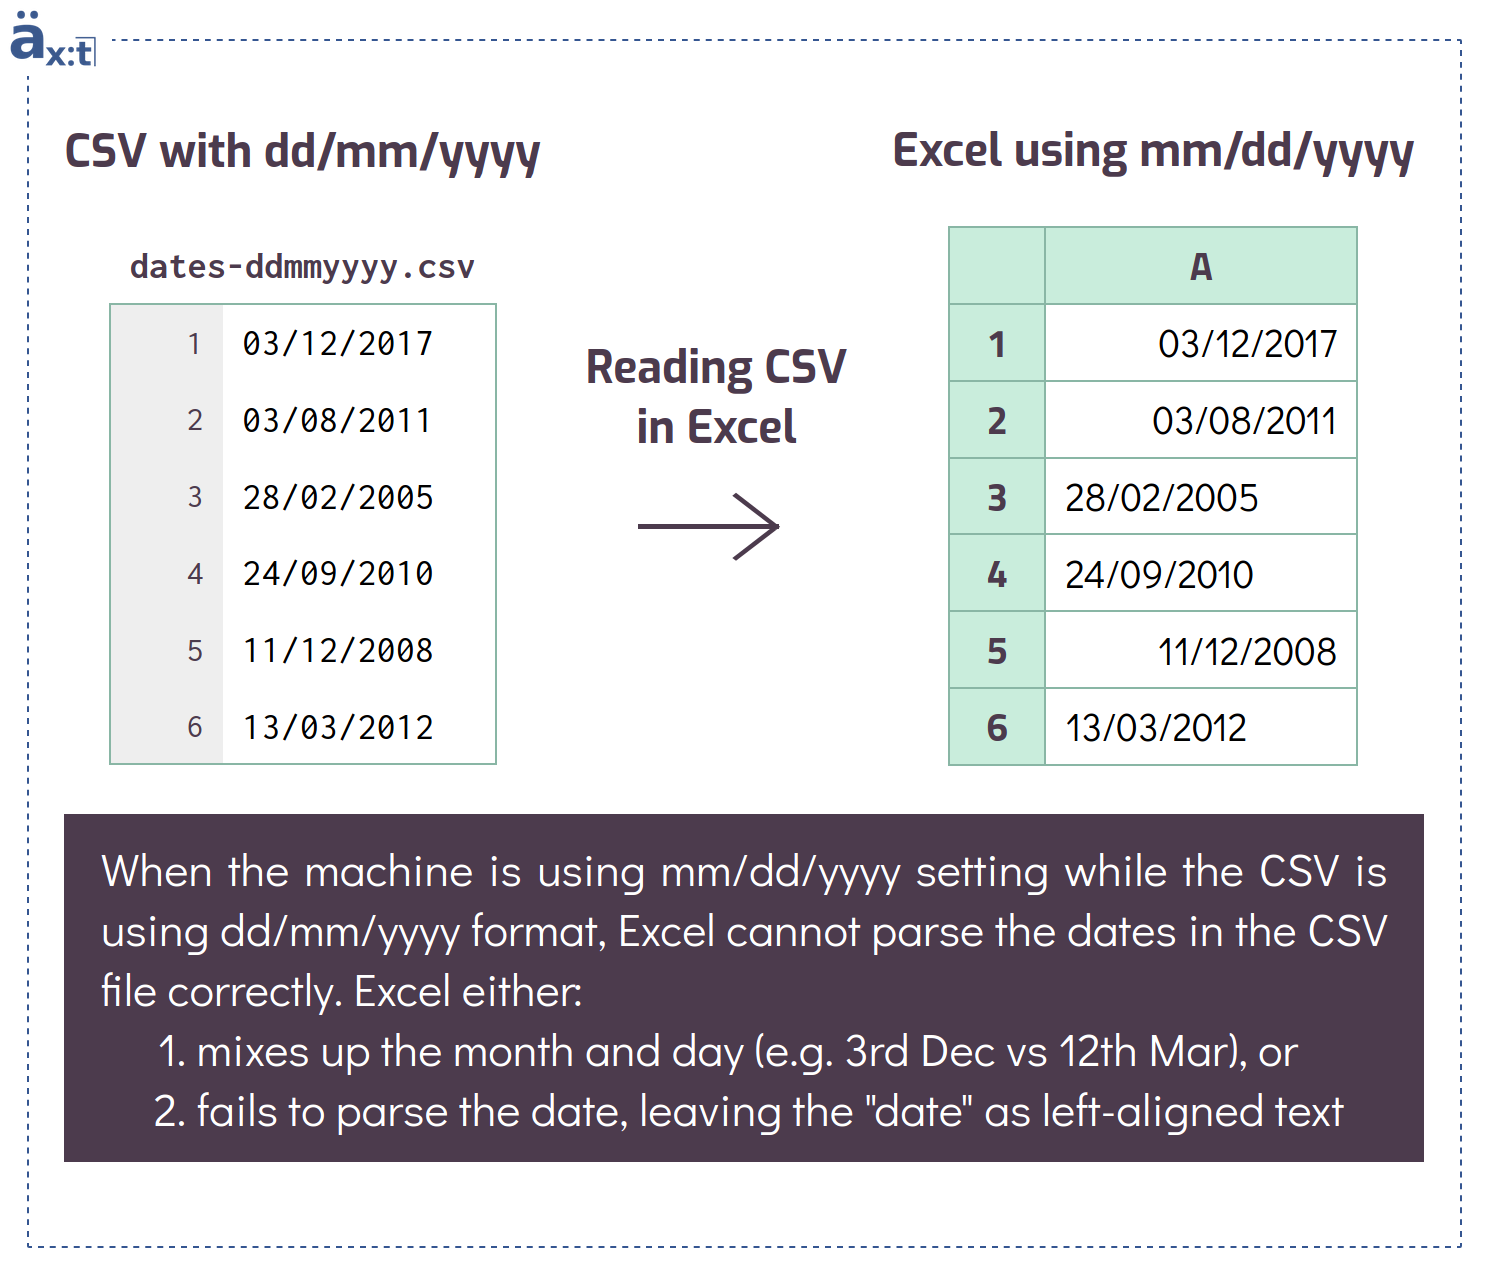
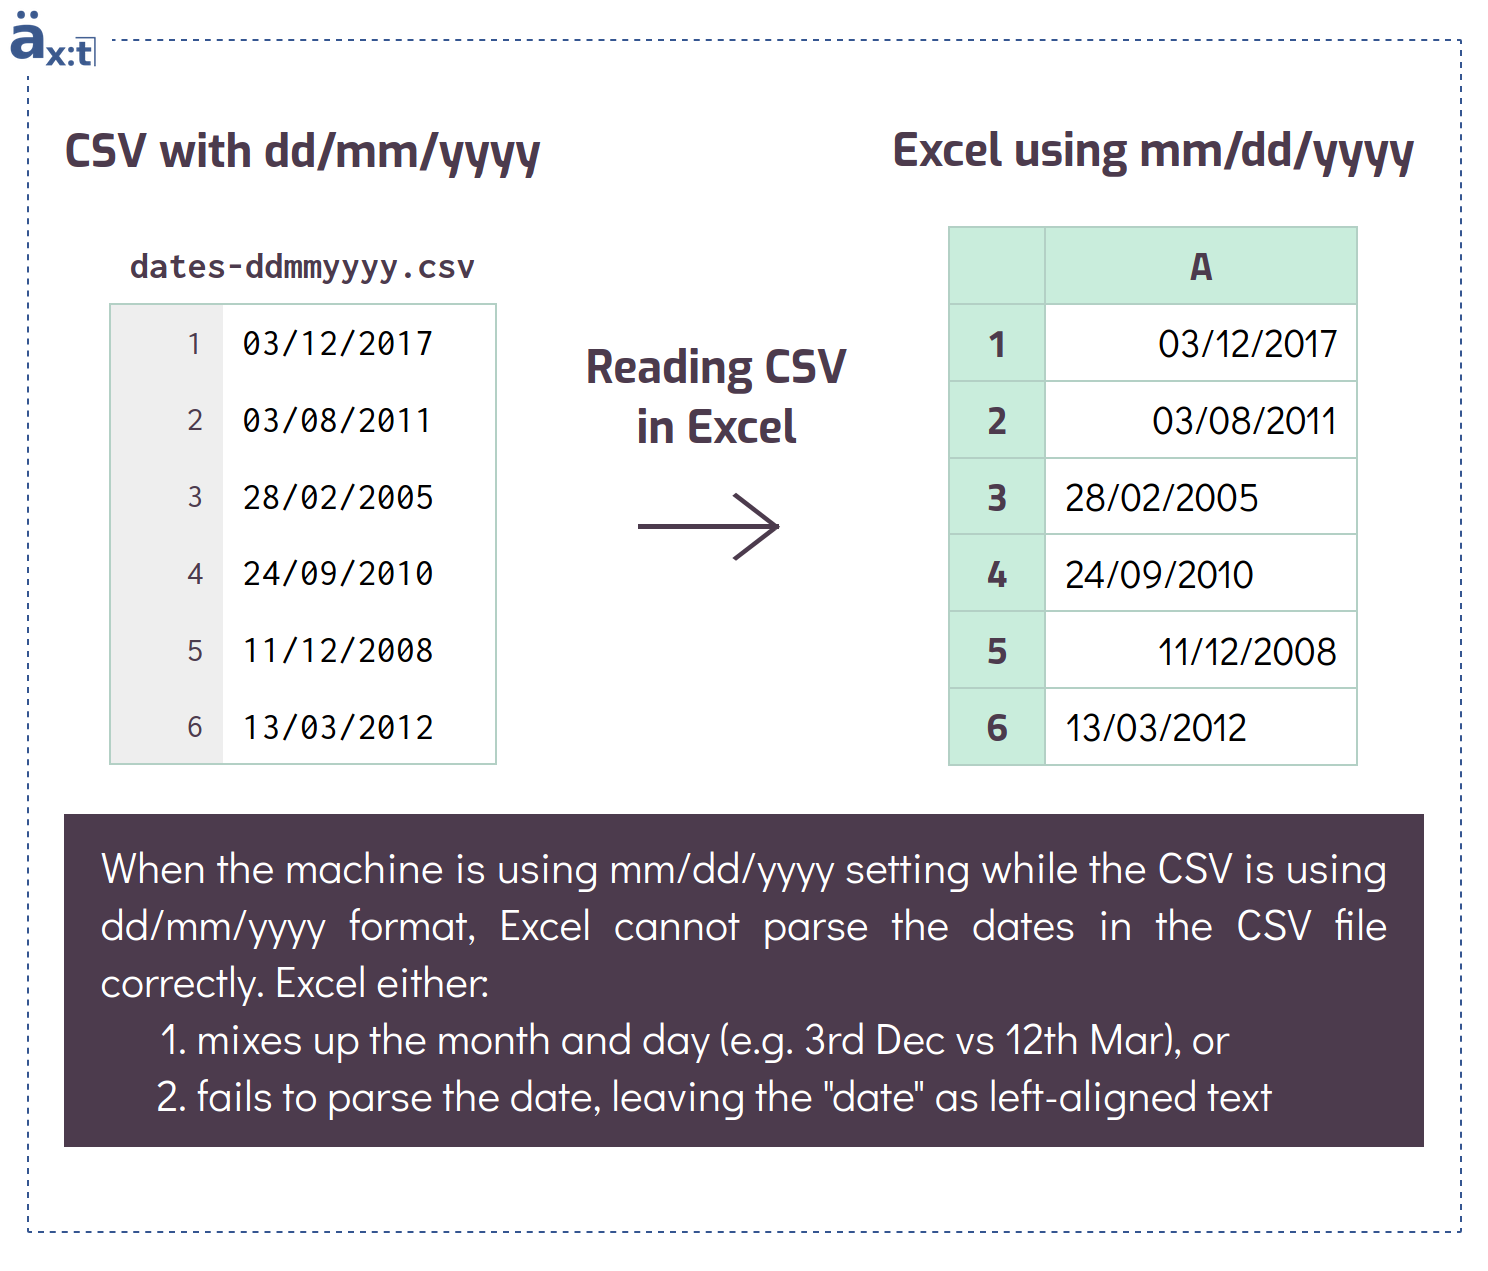
Create dates part2 dates as key image and refine styling

diff --git a/excel-grid/05-dates-part2-dates-as-key.html b/excel-grid/05-dates-part2-dates-as-key.html
@@ -1,0 +1,125 @@
+<!DOCTYPE HTML PUBLIC "-//W3C//DTD HTML 4.01//EN"
+   "http://www.w3.org/TR/html4/strict.dtd">
+<html>
+  <head>
+    <meta charset="utf-8">
+    <link href="excel-grid.css" rel="stylesheet" />
+    <link href="prismjs/prism.css" rel="stylesheet" />
+  </head>
+  <body style="width: 800px;"><div class="container"><div class="content">
+    <div class="background-logo"> </div>
+    <h3>Using dates in keys</h3>
+    <table class="excel-grid">
+      <thead>
+        <tr>
+          <th></th>
+          <th>A</th>
+          <th>B</th>
+          <th class="small">C</th>
+          <th class="small">D</th>
+          <th>E</th>
+          <th>F</th>
+        </tr>
+      </thead>
+      <tbody>
+        <tr>
+          <th>1</th>
+          <td/><td/><td colspan="4"><p class="bold">Exchange Rate Data</p>
+        </tr>
+        <tr class="header">
+          <th>2</th>
+          <td><p class="bad">Bad Key</p></td>
+          <td><p class="good">Good Key</p></td>
+          <td><p>From</p></td>
+          <td><p>To</p></td>
+          <td><p>Date</p></td>
+          <td><p>Exchange Rate</p></td>
+        </tr>
+        <tr>
+          <th>3</th>
+          <td>
+            <p class="bad">EUR-USD-44105</p>
+            <code class="lang-excel-formula">=C3&"-"&D3&"-"&E3</code>
+          </td>
+          <td>
+            <p class="good">EUR-USD-20201001</p>
+            <code class="lang-excel-formula">=C3&"-"&D3&"-"&TEXT(E3, "yyyymmdd")</code>
+          </td>
+          <td><p>EUR</p></td>
+          <td><p>USD</p></td>
+          <td><p class="value">01-Oct-2020</p></td>
+          <td><p class="value">1.174426</p></td>
+        </tr>
+        <tr>
+          <th>4</th>
+          <td>
+            <p class="bad">GBP-USD-44105</p>
+            <code class="lang-excel-formula">=C4&"-"&D4&"-"&E4</code>
+          </td>
+          <td>
+            <p class="good">GBP-USD-20201001</p>
+            <code class="lang-excel-formula">=C4&"-"&D4&"-"&TEXT(E4, "yyyymmdd")</code>
+          </td>
+          <td><p>GBP</p></td>
+          <td><p>USD</p></td>
+          <td><p class="value">01-Oct-2020</p></td>
+          <td><p class="value">1.289732</p></td>
+        </tr>
+        <tr>
+          <th>5</th>
+          <td>
+            <p class="bad">HKD-USD-44105</p>
+          </td>
+          <td>
+            <p class="good">HKD-USD-20201001</p>
+          </td>
+          <td><p>HKD</p></td>
+          <td><p>USD</p></td>
+          <td><p class="value">01-Oct-2020</p></td>
+          <td><p class="value">0.129031</p></td>
+        </tr>
+        <tr>
+          <th>6</th>
+          <td>
+            <p class="bad">EUR-USD-44106</p>
+          </td>
+          <td>
+            <p class="good">EUR-USD-20201002</p>
+          </td>
+          <td><p>EUR</p></td>
+          <td><p>USD</p></td>
+          <td><p class="value">02-Oct-2020</p></td>
+          <td><p class="value">1.172086</p></td>
+        </tr>
+        <tr>
+          <th>7</th>
+          <td>
+            <p class="bad">GBP-USD-44106</p>
+          </td>
+          <td>
+            <p class="good">GBP-USD-20201002</p>
+          </td>
+          <td><p>GBP</p></td>
+          <td><p>USD</p></td>
+          <td><p class="value">02-Oct-2020</p></td>
+          <td><p class="value">1.293753</p></td>
+        </tr>
+        <tr>
+          <th>8</th>
+          <td>
+            <p class="bad">HKD-USD-44106</p>
+          </td>
+          <td>
+            <p class="good">HKD-USD-20201002</p>
+          </td>
+          <td><p>HKD</p></td>
+          <td><p>USD</p></td>
+          <td><p class="value">02-Oct-2020</p></td>
+          <td><p class="value">0.129028</p></td>
+        </tr>
+      </tbody>
+    </table>
+  </div></div>
+    <script src="prismjs/prism.js"></script>
+  </body>
+</html>

diff --git a/excel-grid/excel-grid.css b/excel-grid/excel-grid.css
@@ -41,7 +41,7 @@ h1, h2, h3, h4, h5, h6 {
   margin-left: 0;
 }
 table, th, tr, td {
-  border: 1px solid #89b6a5;
+  border: 1px solid #b3d0c5;
   border-collapse: collapse;
 }
 table p {
@@ -61,14 +61,14 @@ table.text tbody tr td {
   border-top: 1px solid transparent;
 }
 table.text {
-  border: 1px solid #89b6a5; /* shade of 89b6a5 */
+  border: 1px solid #b3d0c5; /* shade of b3d0c5 */
   border-top: none;
 }
 table.text thead th {
   background-color: transparent;
   border-left: 1px solid transparent;
   border-right: 1px solid transparent;
-  border-bottom: 1px solid #89b6a5; /* shade of 89b6a5 */
+  border-bottom: 1px solid #b3d0c5;
 }
 table tr, table th, table td {
   height: 32px;
@@ -101,9 +101,23 @@ th:not(:first-child) {
 th.small:not(:first-child) {
   min-width: 50px;
 }
+tr.header th, tr.header td {
+  border-bottom: 2px solid #89b6a5;
+}
 
+.bold {
+  font-weight: bold;
+}
 .value {
   text-align: right;
+}
+.good {
+  background-color: #ccffcc;
+  color: #008f00;
+}
+.bad {
+  background-color: #ffcccc;
+  color: #cc0000;
 }
 
 td p {
@@ -127,11 +141,13 @@ td p + code {
   background-color: #4c3b4d;
   padding: 10px 15px;
   margin: 20px 0;
-  font-size: 1.2em;
   color: white;
 }
 .message * {
   color: white;
+}
+.message, .message * {
+  font-size: 18px;
 }
 .message p, .message ol {
   margin: 0;

diff --git a/excel-grid/05-dates-part2-csv-result.html b/excel-grid/05-dates-part2-csv-result.html
@@ -3,7 +3,7 @@
 <html>
   <head>
     <meta charset="utf-8">
-    <link href="05-dates-part2-csv-result.css" rel="stylesheet" />
+    <link href="excel-grid.css" rel="stylesheet" />
     <link href="prismjs/prism.css" rel="stylesheet" />
   </head>
   <body style="width: 488px;"><div class="container"><div class="content">

diff --git a/excel-grid/05-dates-part2-read-csv.html b/excel-grid/05-dates-part2-read-csv.html
@@ -3,7 +3,7 @@
 <html>
   <head>
     <meta charset="utf-8">
-    <link href="05-dates-part2-csv-result.css" rel="stylesheet" />
+    <link href="excel-grid.css" rel="stylesheet" />
     <link href="prismjs/prism.css" rel="stylesheet" />
   </head>
   <body style="width: 620px;"><div class="container"><div class="content">
